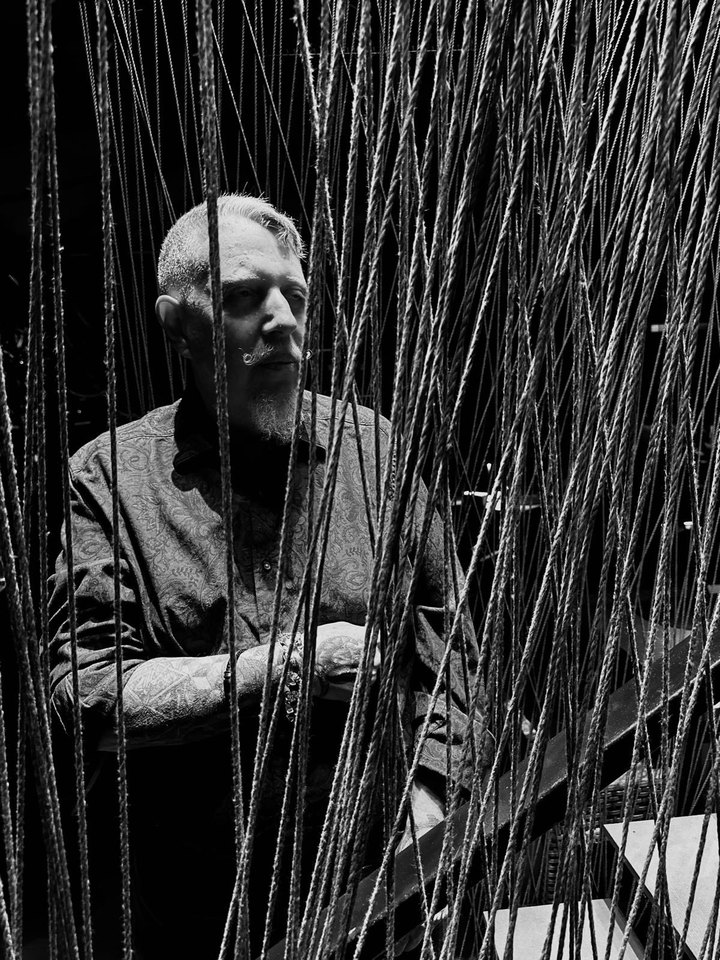
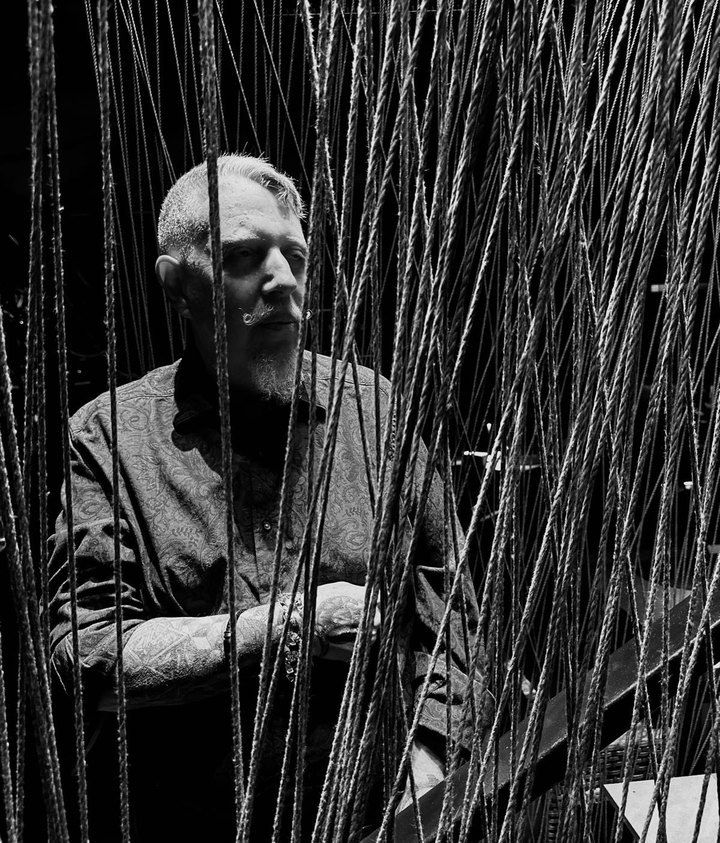
Crop Hal Trager portrait to match the other artist photos
Claude-Session: https://claude.ai/code/session_016Lo5qMsXVYYyB4rEtzvvTs

diff --git a/index.html b/index.html
@@ -116,6 +116,7 @@ body[data-view]:not([data-view="home"]) .bio{padding-top:300px}
 .bio-grid .ph{aspect-ratio:480/562;background:#1b1a18;border:1px solid #2e2c28;color:#8a857a}
 .back{display:inline-block;margin-bottom:1.6rem;color:var(--gold);text-decoration:none;font-size:.95rem}
 .back:hover{text-decoration:underline}
+.artist .portrait{aspect-ratio:720/843;object-fit:cover;object-position:50% 20%}
 .artist h3 a{color:inherit;text-decoration:none}.artist h3 a:hover{color:var(--gold)}.artist .portrait{cursor:pointer}
 @media (max-width:820px){.bio-grid{grid-template-columns:1fr;gap:32px}.bio-grid>div:first-child{max-width:300px}}
 .vgrid{display:grid;grid-template-columns:repeat(3,1fr);gap:48px 32px;margin-top:2rem;align-items:start}.vgrid img{display:block;width:100%;height:auto;margin-bottom:.9rem;box-shadow:0 0 0 1px rgba(0,0,0,.09)}.vgrid h3{font-size:1.15rem}.vgrid p{font-size:.82rem}
@@ -159,7 +160,7 @@ body[data-view]:not([data-view="home"]) .bio{padding-top:300px}
 <h3>Patrice Bertin</h3>
 <p>Contemporary painting, color, texture and optical compositions.</p>
 <a class="lnk" href="#patrice">Biography</a><a class="lnk" href="#patrice-works">Selected works</a></article>
-<article class="artist"><img class="portrait" src="img/savas-06.jpg" alt="Portrait of Hal Trager" width="720" height="960">
+<article class="artist"><img class="portrait" src="img/savas-06.jpg" alt="Portrait of Hal Trager" width="720" height="843">
 <h3>Hal Trager</h3>
 <p>Geometric abstraction and optical art.</p>
 <a class="lnk" href="#hal">Biography</a><a class="lnk" href="#hal-works">Selected works</a></article>
